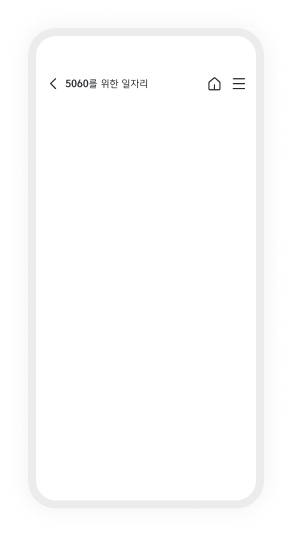
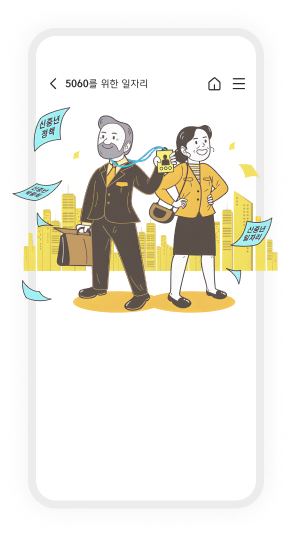
feat: 온보딩 페이지 레이아웃 잡기, 이미지 추가(#8)
* feat: 온보딩 페이지 초안 생성

* fix: 다음버튼 "다음" 텍스트 컴포넌트 내부로, Pagination 로직 수정

* fix: 첫번째 온보딩 페이지 이미지 수정

* feat: 온보딩 파라미터 값 추가

* feat: 온보딩 페이지 이미지 불러오기

diff --git a/src/routes/onboarding.tsx b/src/routes/onboarding.tsx
@@ -1,12 +1,39 @@
 import header from '../image/header.png'
+import dataDummy from '../onboardingDummyData'
+import Onboarding1 from '../components/Onboarding1'
+import { useNavigate, useParams } from 'react-router-dom'
+import Pagination from '../components/Pagination'
+import NextButton from '../components/NextButton'
 
 const onboarding = () => {
+  const { id } = useParams()
+  const paramsNumber = Number(id)
+  const navigate = useNavigate()
+
+  const goNextPage = () => {
+    const nextPageParam = paramsNumber + 1
+    if (nextPageParam > dataDummy.length) {
+      alert('마지막 페이지입니다.')
+      return
+    }
+    navigate(`/onboarding/${paramsNumber + 1}`)
+  }
+
   return (
     <>
       <header>
         <img src={header} />
       </header>
-      <main className='px-4'>
+      <main className='flex flex-col justify-between h-full'>
+        <div className='px-4 py-4 flex justify-center'>
+          <Pagination size={6} activeNumber={paramsNumber} />
+        </div>
+        <div className='text-center font-MICEGothc'>
+          <h2 className='text-3xl pb-2'>{dataDummy[paramsNumber - 1].title}</h2>
+          <p>{dataDummy[paramsNumber - 1].content}</p>
+        </div>
+        {dataDummy[paramsNumber - 1].animate}
+        <NextButton active={true} onClick={goNextPage} />
       </main>
     </>
   )

diff --git a/src/onboardingDummyData.tsx b/src/onboardingDummyData.tsx
@@ -1,0 +1,24 @@
+import Onboarding1 from './components/Onboarding1'
+import Onboarding2 from './components/Onboarding2'
+import Onboarding3 from './components/Onboarding3'
+import Onboarding4 from './components/Onboarding4'
+import Onboarding5 from './components/Onboarding5'
+import Onboarding6 from './components/Onboarding6'
+
+interface onboadringPageProps {
+  id: number
+  title: string
+  content: string
+  animate: any
+}
+
+const onboadringDataList: (onboadringPageProps)[] = [
+  { id: 1, title: '편리한 송금', content: '계좌번호 입력 시 자동 은행인식', animate: <Onboarding1 /> }, 
+  { id: 2, title: '안전한 익명거래', content: '나만의 특별한 아이디로 실명 노출 없이 거래', animate: <Onboarding2 />  },
+  { id: 3, title: '사기신고 이력', content: '송금하는 계좌의 범죄이력 제공', animate: <Onboarding3 />  },
+  { id: 4, title: '맞춤형 솔루션', content: '행복한 미래를 위한 첫걸음', animate: <Onboarding4 />  },
+  { id: 5, title: '혜택듬뿍 카드', content: '내 생활에 맞게 삶의 질을 높여줄 카드', animate: <Onboarding5 />  },
+  { id: 6, title: '일자리 찾기', content: '내 생활에 맞게 삶의 질을 높여줄 카드', animate: <Onboarding6 />  },
+]
+
+export default onboadringDataList

diff --git a/src/components/Pagination.tsx b/src/components/Pagination.tsx
@@ -4,17 +4,22 @@ interface PaginationProps {
 }
 
 const Pagination = ({ size, activeNumber }: PaginationProps) => {
-	const newArray = Array.from({ length: size }, (v, i) => i + 1)
+  const newArray = Array.from({ length: size }, (v, i) => i + 1)
 
-	const active = activeNumber ? 'bg-gray-400 w-4' : 'bg-gray-350 w-2';
-	console.log(newArray)
-	return (
-		<div className='flex'>
-			{newArray.map((item, index) => (
-				(item !== activeNumber)?
-				<div key={index} className='rounded-full h-[0.375rem] m-[0.188rem] bg-gray-350 w-[0.375rem]' />
-				:<div key={index} className='rounded-full h-[0.375rem] m-[0.188rem] bg-gray-400 w-[1.125rem]' />
-			))}
+	const isActiveNumber = (currentPage: number) => currentPage === activeNumber
+	
+  return (
+    <div className='flex'>
+      {newArray.map((item, index) => (
+        <div
+          key={index}
+          className={
+            'rounded-full h-[0.375rem] m-[0.188rem] ' + (isActiveNumber(item)
+              ? 'bg-gray-400 w-[1.125rem]'
+              : 'bg-gray-350 w-[0.375rem]')
+          }
+        />
+      ))}
     </div>
   )
 }

diff --git a/src/components/NextButton.tsx b/src/components/NextButton.tsx
@@ -1,16 +1,15 @@
 interface NextButtonProps {
-	children: React.ReactNode
 	active?: boolean
 	onClick?: () => void
 }
 
-const NextButton = ({ children, active = false, onClick }: NextButtonProps) => {
+const NextButton = ({  active = false, onClick }: NextButtonProps) => {
 	
 	const activeColor = active ? 'bg-yellow-300' : 'bg-gray-300'
 	
 	return (
 		// eslint-disable-next-line @typescript-eslint/no-empty-function
-		<button onClick={active ? onClick : () => {}} className={`${activeColor} text-gray-800 font-bold pt-3 pb-6 w-full font-NotoSans`}>{children}</button>
+		<button onClick={active ? onClick : () => {}} className={`${activeColor} text-gray-800 font-bold pt-3 pb-6 w-full font-NotoSans`}>다음</button>
 	)	
 }
 

diff --git a/src/components/Onboarding4.tsx b/src/components/Onboarding4.tsx
@@ -1,0 +1,17 @@
+import Img1 from '../image/onboarding_4_1.png'
+import Img2 from '../image/onboarding_4_2.png'
+import Img3 from '../image/onboarding_4_3.png'
+import Img4 from '../image/onboarding_4_4.png'
+
+const Onboarding3 = () => {
+	return (
+    <div className='relative'>
+      <img src={Img1} alt='img' className='m-auto' />
+      <img src={Img2} alt='img' className='absolute bottom-0 p-6 right-1/2 translate-x-1/2 animate-pulse' />
+      <img src={Img3} alt='img' className='absolute bottom-0 p-6 right-1/2 translate-x-1/2 animate-pulse' />
+      <img src={Img4} alt='img' className='absolute bottom-0 p-6 right-1/2 translate-x-1/2 animate-pulse' />
+    </div>
+	)
+}
+
+export default Onboarding3

diff --git a/src/components/Onboarding5.tsx b/src/components/Onboarding5.tsx
@@ -1,0 +1,17 @@
+import Img1 from '../image/onboarding_5_1.png'
+import Img2 from '../image/onboarding_5_2.png'
+import Img3 from '../image/onboarding_5_3.png'
+import Img4 from '../image/onboarding_5_4.png'
+
+const Onboarding3 = () => {
+	return (
+    <div className='relative'>
+      <img src={Img1} alt='img' className='m-auto' />
+      <img src={Img2} alt='img' className='absolute bottom-0 p-6 right-1/2 translate-x-1/2 animate-pulse' />
+      <img src={Img3} alt='img' className='absolute bottom-0 p-6 right-1/2 translate-x-1/2 animate-pulse' />
+      <img src={Img4} alt='img' className='absolute bottom-0 p-6 right-1/2 translate-x-1/2 animate-pulse' />
+    </div>
+	)
+}
+
+export default Onboarding3

diff --git a/src/components/Onboarding6.tsx b/src/components/Onboarding6.tsx
@@ -1,0 +1,17 @@
+import Img1 from '../image/onboarding_6_1.png'
+import Img2 from '../image/onboarding_6_2.png'
+import Img3 from '../image/onboarding_6_3.png'
+import Img4 from '../image/onboarding_6_4.png'
+
+const Onboarding3 = () => {
+	return (
+    <div className='relative'>
+      <img src={Img1} alt='img' className='m-auto' />
+      <img src={Img2} alt='img' className='absolute bottom-0 p-6 right-1/2 translate-x-1/2 animate-pulse' />
+      <img src={Img3} alt='img' className='absolute bottom-0 p-6 right-1/2 translate-x-1/2 animate-pulse' />
+      <img src={Img4} alt='img' className='absolute bottom-0 p-6 right-1/2 translate-x-1/2 animate-pulse' />
+    </div>
+	)
+}
+
+export default Onboarding3

diff --git a/src/index.tsx b/src/index.tsx
@@ -3,6 +3,7 @@ import ReactDOM from 'react-dom/client'
 import './index.css'
 import reportWebVitals from './reportWebVitals'
 import { createBrowserRouter, RouterProvider } from 'react-router-dom'
+
 const App = React.lazy(() => import('./App'))
 const Onboarding = React.lazy(() => import('./routes/onboarding'))
 const Splash = React.lazy(() => import('./routes/splash'))
@@ -13,7 +14,7 @@ const router = createBrowserRouter([
     element: <App />,
     children: [
       {
-        path: '/onboarding',
+        path: '/onboarding/:id',
         element: <Onboarding />,
       },
       {

diff --git a/src/components/Onboarding1.tsx b/src/components/Onboarding1.tsx
@@ -1,0 +1,13 @@
+import Img1 from '../image/onboarding_1_1.png'
+import Img2 from '../image/onboarding_1_2.png'
+
+const Onboarding1 = () => {
+  return (
+    <div className='relative'>
+      <img src={Img1} alt='img' className='m-auto' />
+      <img src={Img2} alt='img' className='absolute transition-shadow top-1/2 right-1/2 translate-x-1/2 drop-shadow-lg animate-pulse' />
+    </div>
+  )
+}
+
+export default Onboarding1

diff --git a/src/components/Onboarding3.tsx b/src/components/Onboarding3.tsx
@@ -1,0 +1,13 @@
+import Img1 from '../image/onboarding_3_1.png'
+import Img2 from '../image/onboarding_3_2.png'
+
+const Onboarding3 = () => {
+	return (
+    <div className='relative'>
+      <img src={Img1} alt='img' className='m-auto' />
+      <img src={Img2} alt='img' className='absolute bottom-0 p-6 right-1/2 translate-x-1/2 animate-pulse' />
+    </div>
+	)
+}
+
+export default Onboarding3

diff --git a/src/components/Onboarding2.tsx b/src/components/Onboarding2.tsx
@@ -1,0 +1,9 @@
+import React from 'react'
+
+const Onboarding2 = () => {
+	return (
+		<div>Onboarding2</div>
+	)
+}
+
+export default Onboarding2
